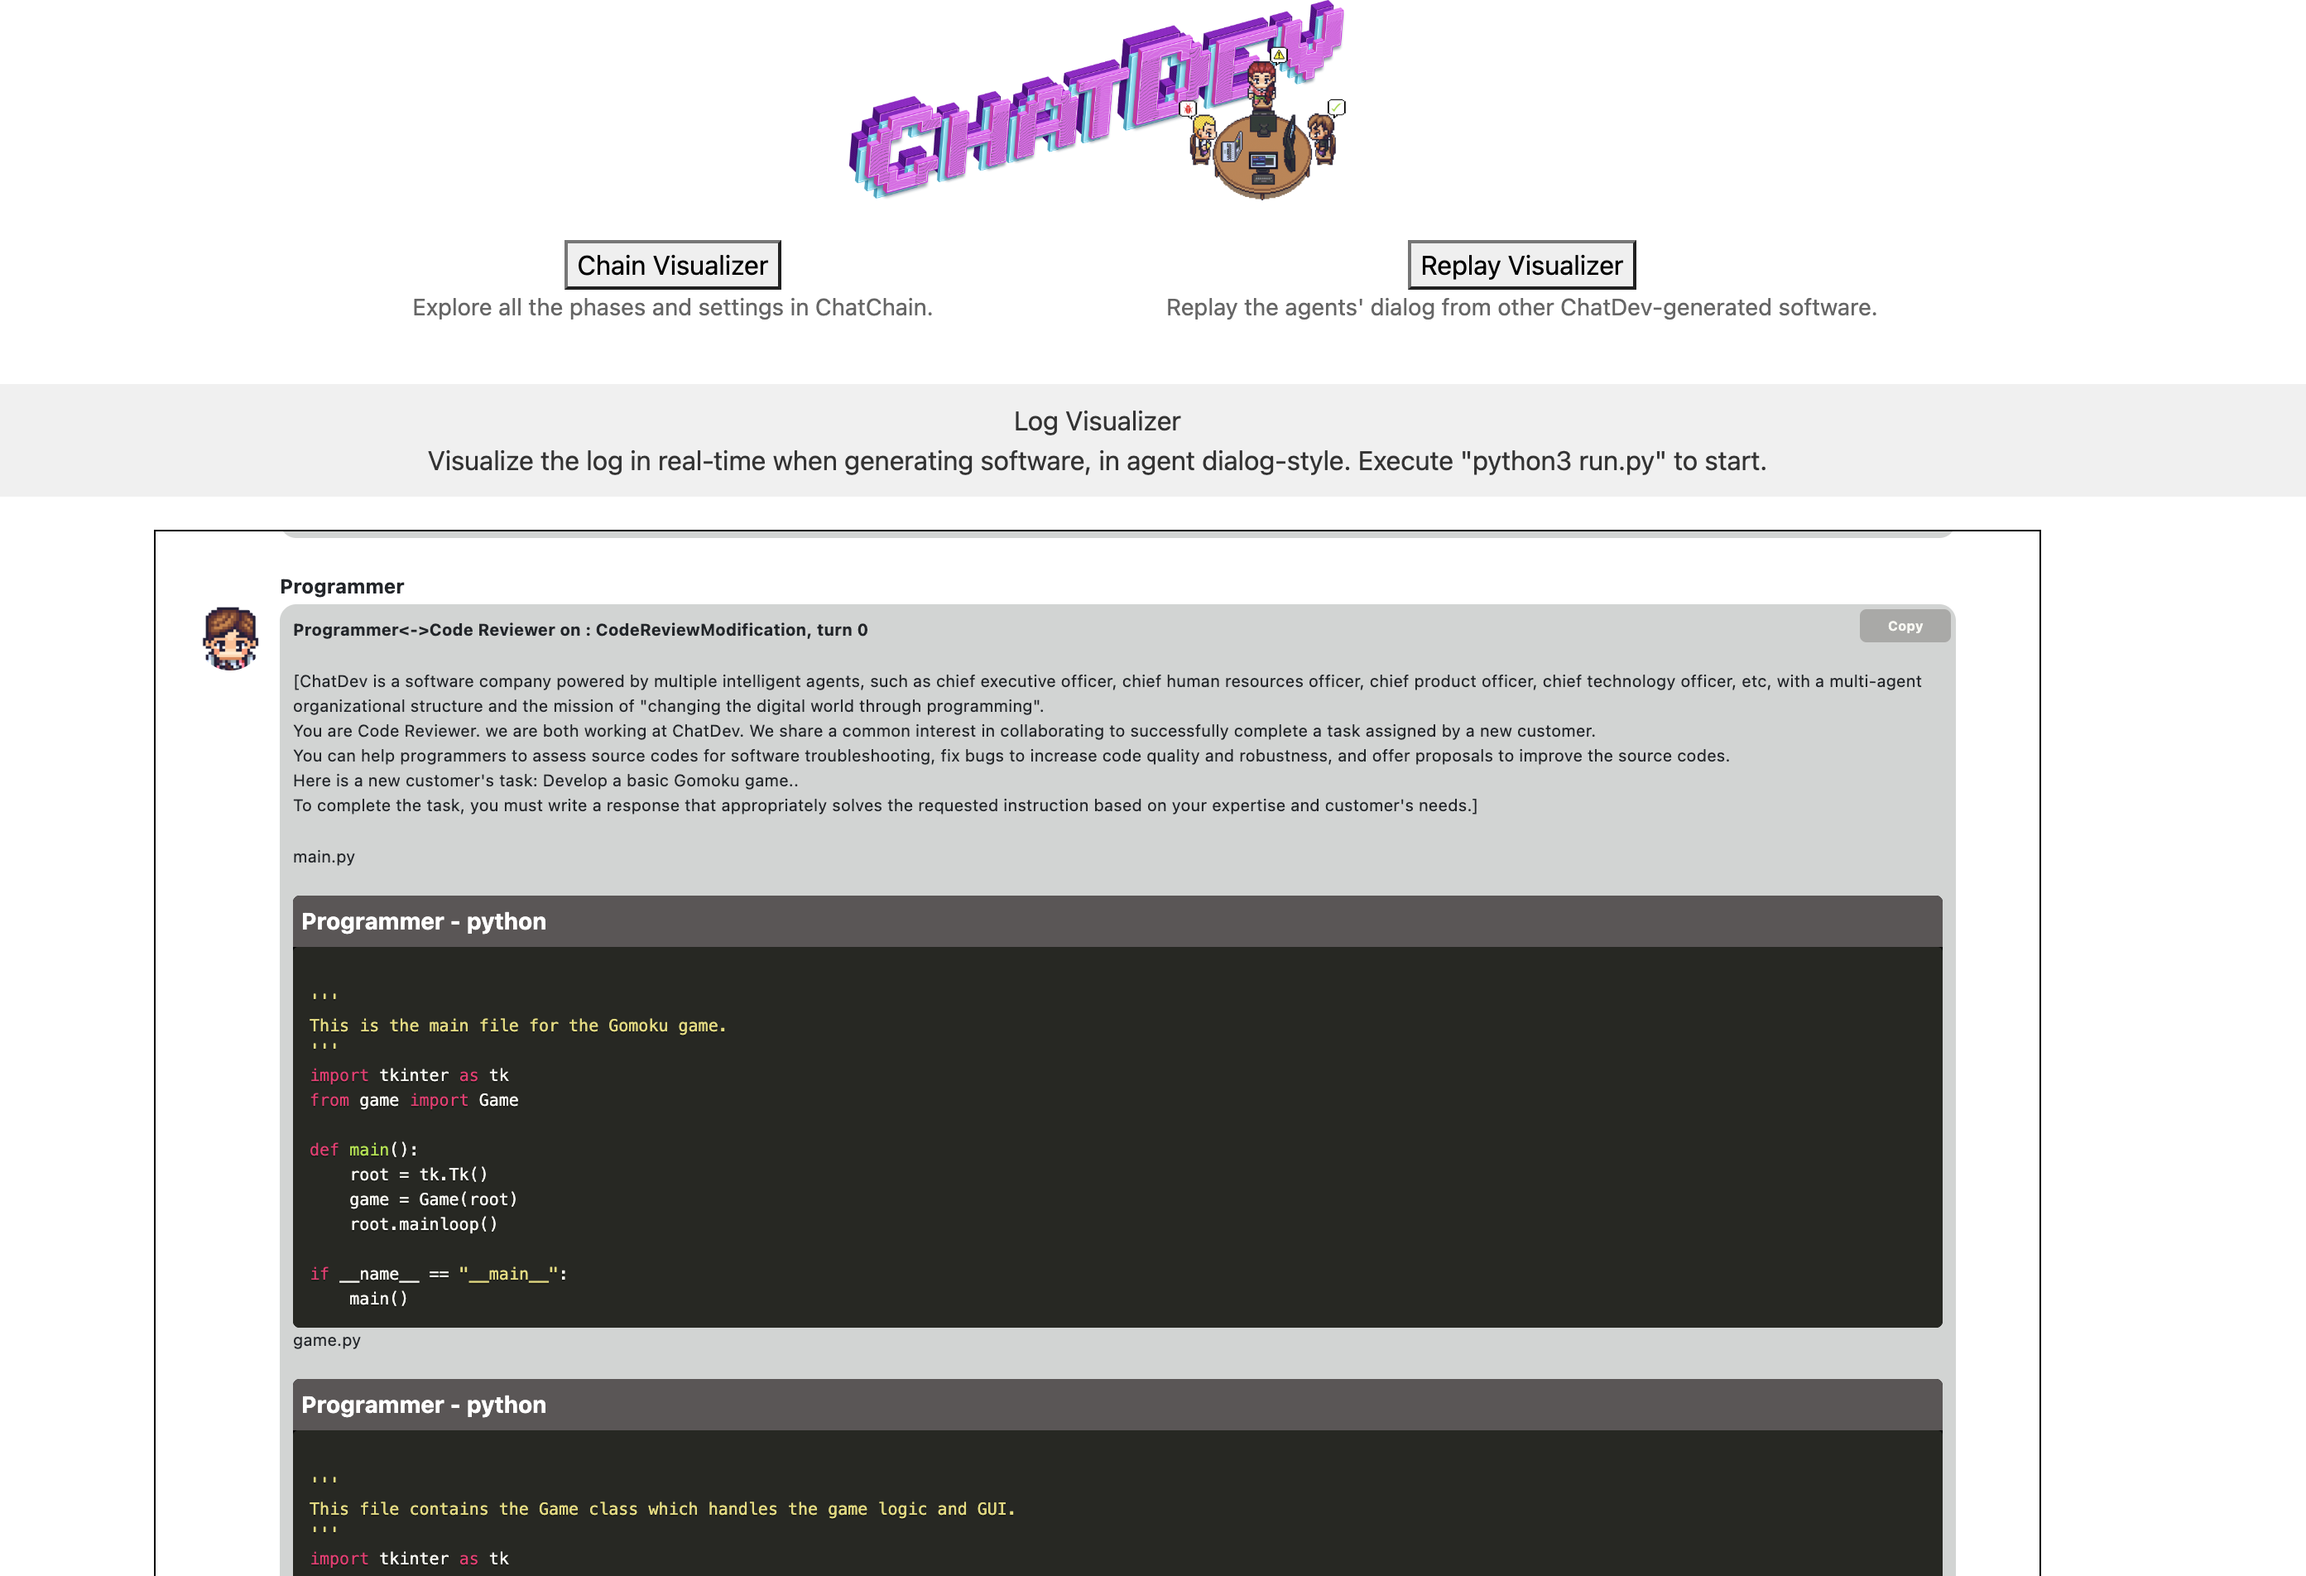
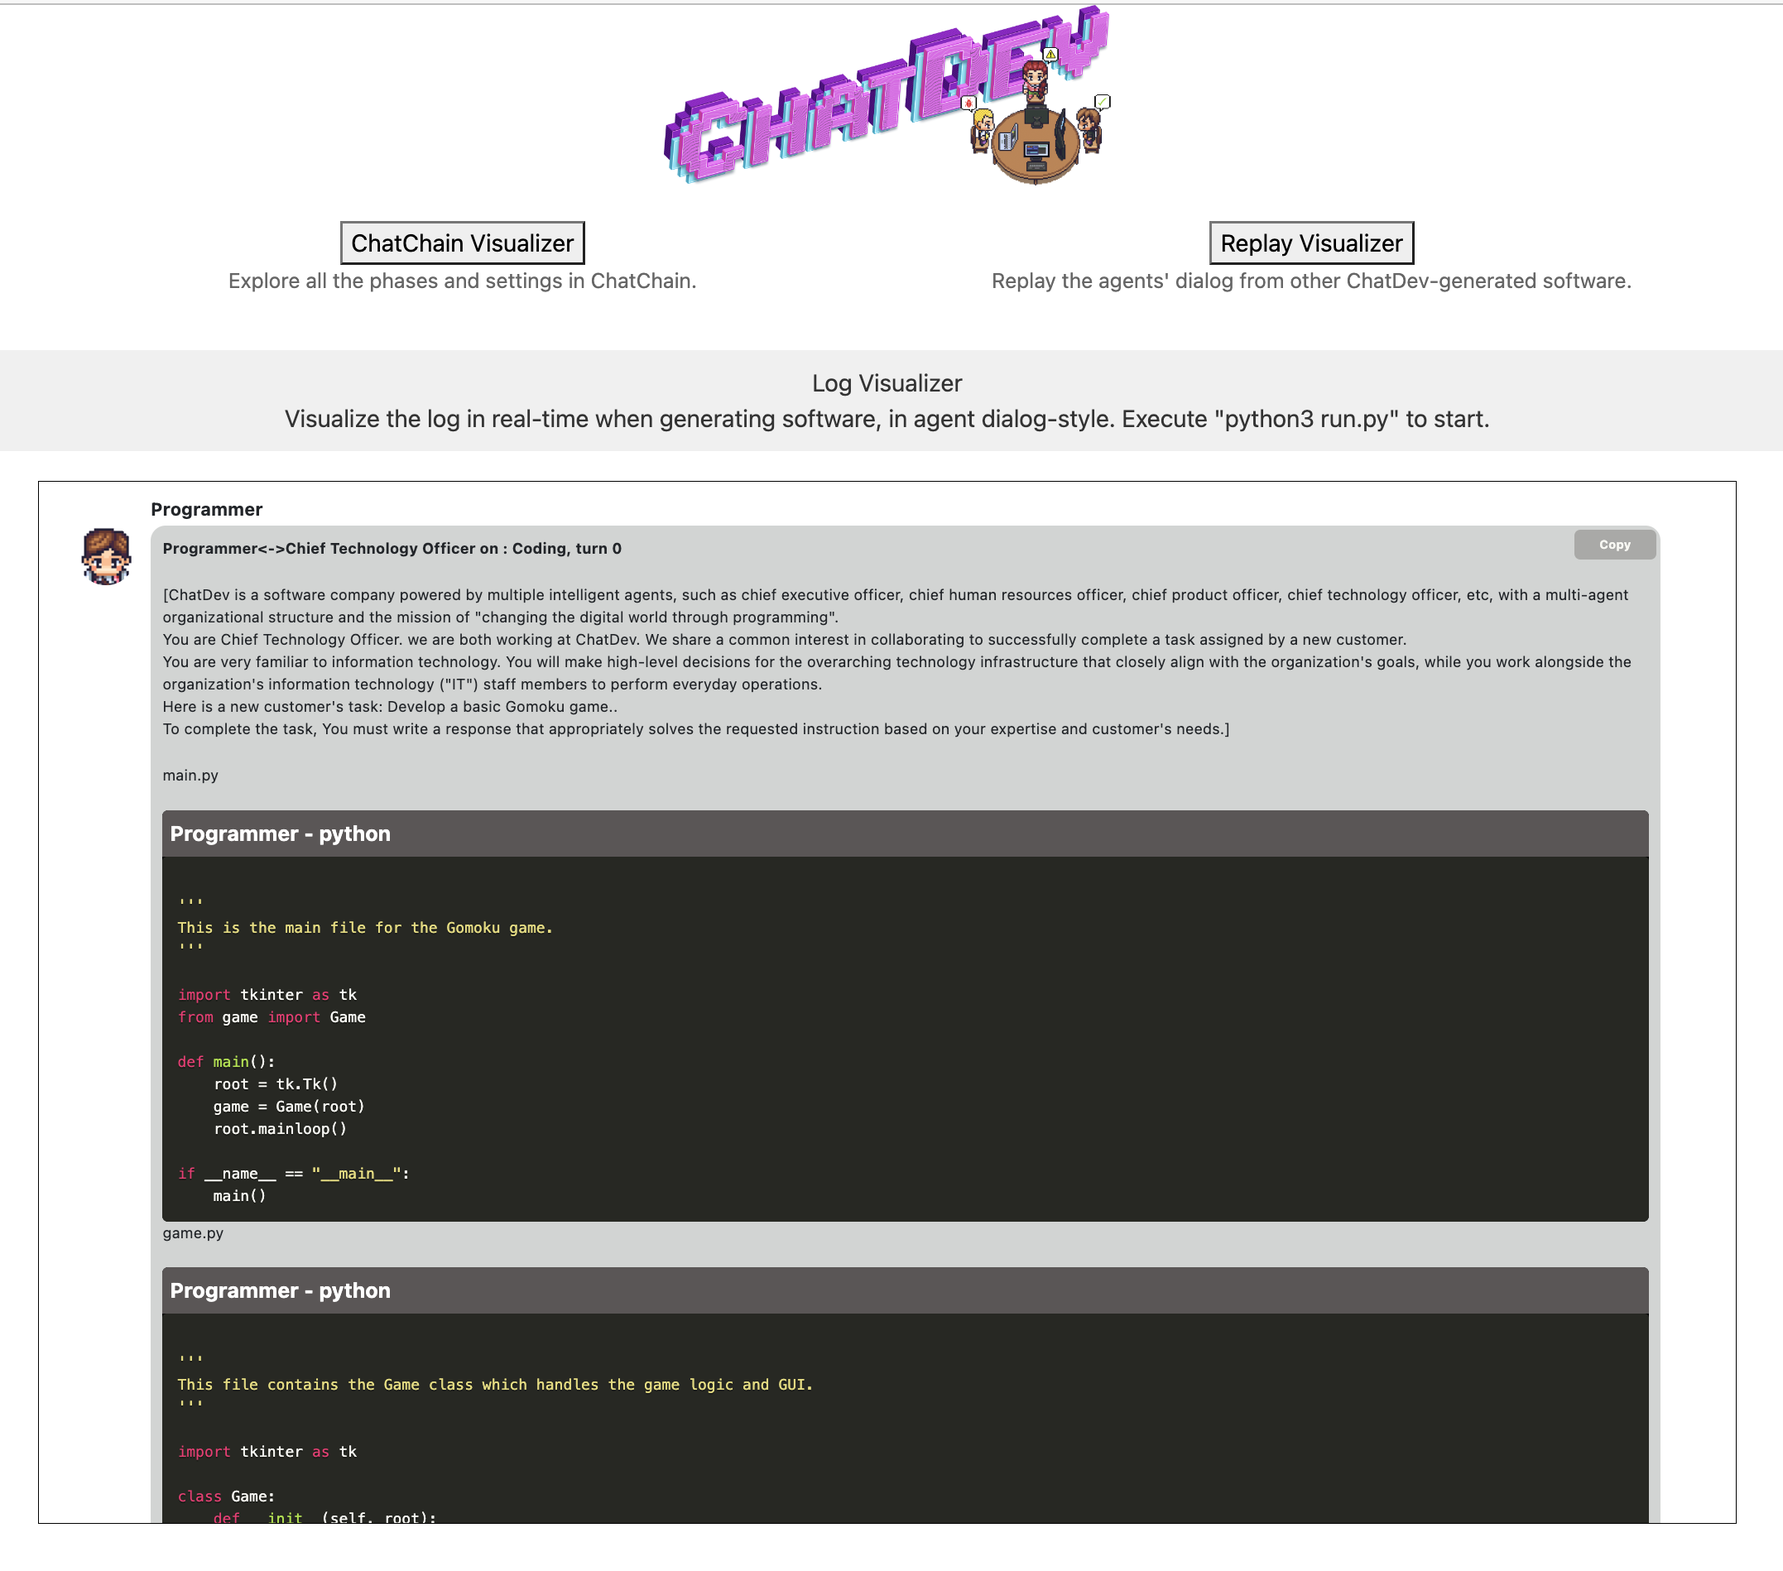
Chain --> ChatChain

diff --git a/visualizer/static/chain_visualizer.html b/visualizer/static/chain_visualizer.html
@@ -2,7 +2,7 @@
 <html>
 
 <head>
-    <title>Chain Visualizer</title>
+    <title>ChatChain Visualizer</title>
     <link rel="stylesheet" href="https://cdnjs.cloudflare.com/ajax/libs/materialize/1.0.0/css/materialize.min.css">
     <style>
         body {
@@ -50,7 +50,7 @@
 
 <body>
     <div class="container">
-        <h2>Chain Visualizer</h2>
+        <h2>ChatChain Visualizer</h2>
         <p>Select your ChatChainConfig.json under CompanyConfig/ to visualize</p>
         <input type="file" id="fileInput" accept=".json">
         <button id="exportButton">Export as Image</button>

diff --git a/visualizer/static/index.html b/visualizer/static/index.html
@@ -61,7 +61,7 @@
         <div class="visualizer-box">
             <br>
             <a href="static/chain_visualizer.html">
-                <button>Chain Visualizer</button>
+                <button>ChatChain Visualizer</button>
             </a>
             <p class="visualizer-info">Explore all the phases  and settings in ChatChain.</p>
         </div>
